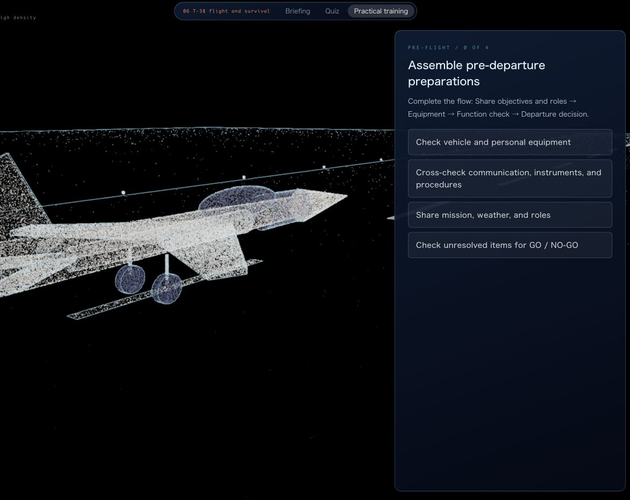
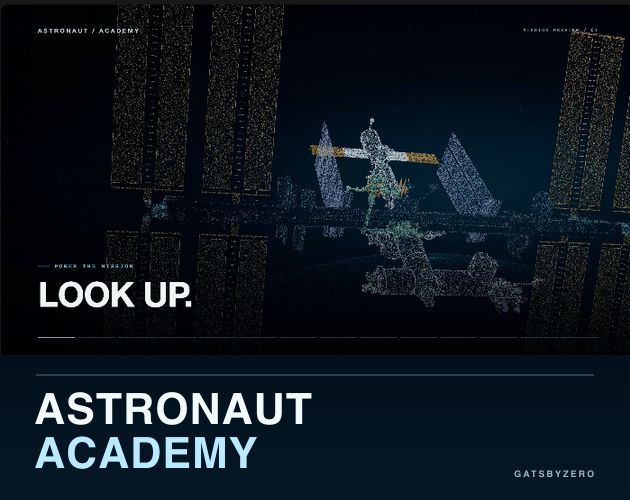
Build screenshot-based Look Up cover

diff --git a/launch/ITCH-PAGE.md b/launch/ITCH-PAGE.md
@@ -14,7 +14,7 @@
 
 **Suggested tags:** Educational, Simulation, Space, Science, 3D, Browser
 
-**Cover:** `launch/assets/cover.png` — 630 × 500 crop of the actual T-38 practical training screen, with no generated key art or NASA media. **Images:** `launch/assets/t38-scene.png` — original conceptual 3D scene render, no NASA media; `launch/assets/robotics-gameplay.png` — actual game screenshot with original arm and vehicle, plus a credited [NASA SVS star map](https://svs.gsfc.nasa.gov/4851) in the background. Do not upload the existing NASA ISS/EMU trailer or the title photograph as promotional media without a separate rights review.
+**Cover:** `launch/assets/cover.png` — 630 × 500 layout made from GatsbyZero's supplied game screenshot with deterministic typography, no generated art. It shows the game's point-cloud [NASA VTAD ISS model](https://science.nasa.gov/resource/international-space-station-3d-model/) and [NASA SVS star map](https://svs.gsfc.nasa.gov/4851). **Images:** `launch/assets/t38-scene.png` — original conceptual 3D scene render, no NASA media; `launch/assets/robotics-gameplay.png` — actual game screenshot with original arm and vehicle, plus the credited NASA SVS star map. Do not upload the existing NASA ISS/EMU trailer or the title photograph as promotional media without a separate rights review. Do not reuse the cover in Ko-fi fundraising.
 
 ## English page text
 
@@ -24,9 +24,9 @@ Start with Orientation. Use the mouse or touch to select buttons and 3D markers;
 
 **Help improve it:** [Play feedback, content and source corrections, ideas, and translation](https://github.com/Gatsby007max/astronaut-academy/discussions). [Report a reproducible bug](https://github.com/Gatsby007max/astronaut-academy/issues/new/choose). [Read the source and contribute](https://github.com/Gatsby007max/astronaut-academy).
 
-This is a free, independent project. NASA did not create, certify, endorse, or partner on it. NASA media and sources used inside the educational game are individually credited in the [asset register](https://github.com/Gatsby007max/astronaut-academy/blob/main/ASSET-CREDITS.md) and in the game. The cover and T-38 scene render contain no NASA media. The robotics screenshot includes a credited NASA SVS star map in the background.
+This is a free, independent project. NASA did not create, certify, endorse, or partner on it. NASA media and sources used inside the educational game are individually credited in the [asset register](https://github.com/Gatsby007max/astronaut-academy/blob/main/ASSET-CREDITS.md) and in the game. The cover shows the game's point-cloud ISS model based on NASA VTAD data and a NASA SVS star map, both credited above. The T-38 scene render contains no NASA media. The robotics screenshot includes the credited NASA SVS star map in the background.
 
-English translation drafts, parts of the code, and some original game graphics were made with Codex assistance and are open to correction. The selected cover is cropped from a real game screenshot. In itch.io's AI disclosure, select **Yes**, **Text & Dialog**, **Code**, and **Graphics**. The cover's provenance is recorded in [ASSET-CREDITS.md](../ASSET-CREDITS.md).
+English translation drafts, parts of the code, and some original game graphics were made with Codex assistance and are open to correction. The selected cover uses a supplied game screenshot and typeset text, with no generated image. In itch.io's AI disclosure, select **Yes**, **Text & Dialog**, **Code**, and **Graphics** for the project as a whole. The cover's provenance is recorded in [ASSET-CREDITS.md](../ASSET-CREDITS.md).
 
 ## 日本語の掲載文
 
@@ -36,4 +36,4 @@ English translation drafts, parts of the code, and some original game graphics w
 
 改善への参加は[GitHub Discussions](https://github.com/Gatsby007max/astronaut-academy/discussions)、再現できる不具合は[Issues](https://github.com/Gatsby007max/astronaut-academy/issues/new/choose)、修正案は[Pull Request](https://github.com/Gatsby007max/astronaut-academy/pulls)で受け付けます。支援の有無で教材や参加権は変わりません。
 
-NASAが本作を制作・認定・推奨・提携したものではありません。ゲーム内のNASA素材と資料は[素材台帳](https://github.com/Gatsby007max/astronaut-academy/blob/main/ASSET-CREDITS.md)とゲーム内で個別に出典を表示しています。表紙は独自のT-38実技画面を切り抜いたものです。ロボティクスの実プレイ画像の背景には出典を示したNASA SVSの星図を使用しています。
+NASAが本作を制作・認定・推奨・提携したものではありません。ゲーム内のNASA素材と資料は[素材台帳](https://github.com/Gatsby007max/astronaut-academy/blob/main/ASSET-CREDITS.md)とゲーム内で個別に出典を表示しています。表紙は提供されたゲーム画面から作成し、NASA VTADのISSモデルとNASA SVSの星図を使用しています。ロボティクスの実プレイ画像の背景にも、出典を示したNASA SVSの星図を使用しています。

diff --git a/ASSET-CREDITS.md b/ASSET-CREDITS.md
@@ -17,7 +17,9 @@ The existing 15-second trailer and gameplay stills other than the original scene
 
 ## Original launch artwork
 
-`launch/assets/cover.png` is an **actual gameplay screenshot**, not generated key art. It was cropped from `launch/assets/cover-source-t38-practical.jpg`, captured from the public game's T-38 practical training screen at 1260 × 1000 pixels, then resized to 630 × 500 pixels. The crop excludes the debug label; no game objects or UI were added. The conceptual jet, runway, and sky are built in game code and contain no NASA photograph, model, logo, or person. This cover is for the game listing, not Ko-fi fundraising.
+`launch/assets/cover.png` uses GatsbyZero's supplied `launch/assets/cover-source-look-up.png` game screenshot (699 × 394 pixels). `node scripts/render-cover-from-screenshot.mjs` scales the screenshot to fit the 630 × 500 cover and adds only a dark lower band with typeset game title and creator credit. No generated image is used. The scene shows the game's point-cloud [NASA VTAD ISS model](https://science.nasa.gov/resource/international-space-station-3d-model/) and [NASA SVS star map](https://svs.gsfc.nasa.gov/4851). It contains no NASA employee, insignia, or logo. Use it for the factual free-game listing with source credit and a clear non-endorsement notice, not Ko-fi fundraising.
+
+`launch/assets/cover-t38-gameplay-630x500.png` and `launch/assets/cover-source-t38-practical.jpg` preserve the earlier actual T-38 gameplay cover and its source screenshot. The conceptual jet, runway, and sky are built in game code and contain no NASA photograph, model, logo, or person.
 
 `launch/assets/cover.svg` and `launch/assets/cover-abstract-630x500.png` preserve the earlier Codex-assisted abstract illustration, which is no longer the selected cover. `launch/assets/t38-scene.png` is an unretouched render of the game's own conceptual T-38 scene, copied from the existing promo capture. It contains no NASA photograph, model, logo, or person. It is a scene render rather than a screenshot of the playable interface.
 

diff --git a/launch/LAUNCH-CHECKLIST.md b/launch/LAUNCH-CHECKLIST.md
@@ -25,7 +25,7 @@
 ## 確認済み・保留中の証跡（2026-09-27）
 
 - 出典監査: `npm run audit:sources` は49件、失敗0件。
-- `launch/assets/cover.png`は公開ゲームのT-38実技画面から630×500に切り抜いた実プレイ表紙。ゲーム内の独自概念模型から作った`launch/assets/t38-scene.png`とともに、NASAの写真・モデル・人物・ロゴを含まない公開画像候補。以前の抽象表紙は`cover-abstract-630x500.png`として保存。
+- `launch/assets/cover.png`はGatsbyZero提供の実ゲーム画面に文字を組んだ630×500の表紙。NASA VTADのISSモデルとNASA SVSの星図を含むため、出典・非公認表示を付け、Ko-fiの支援訴求には使わない。T-38実プレイ版は`cover-t38-gameplay-630x500.png`、以前の抽象表紙は`cover-abstract-630x500.png`として保存。
 - `launch/assets/robotics-gameplay.png`は実プレイ画像。背景のNASA SVS星図を明示して使い、Ko-fiの支援訴求には転用しない。
 - 既存の15秒PVはNASAのISS・EMUモデルを含む。広報への使用前に全カットと音楽の確認が必要。
 - タイトル写真にはNASA宇宙飛行士Tracy C. Dysonが写る。ゲーム内の教育的な表示に限り、外部広報と支援募集には使わない。
